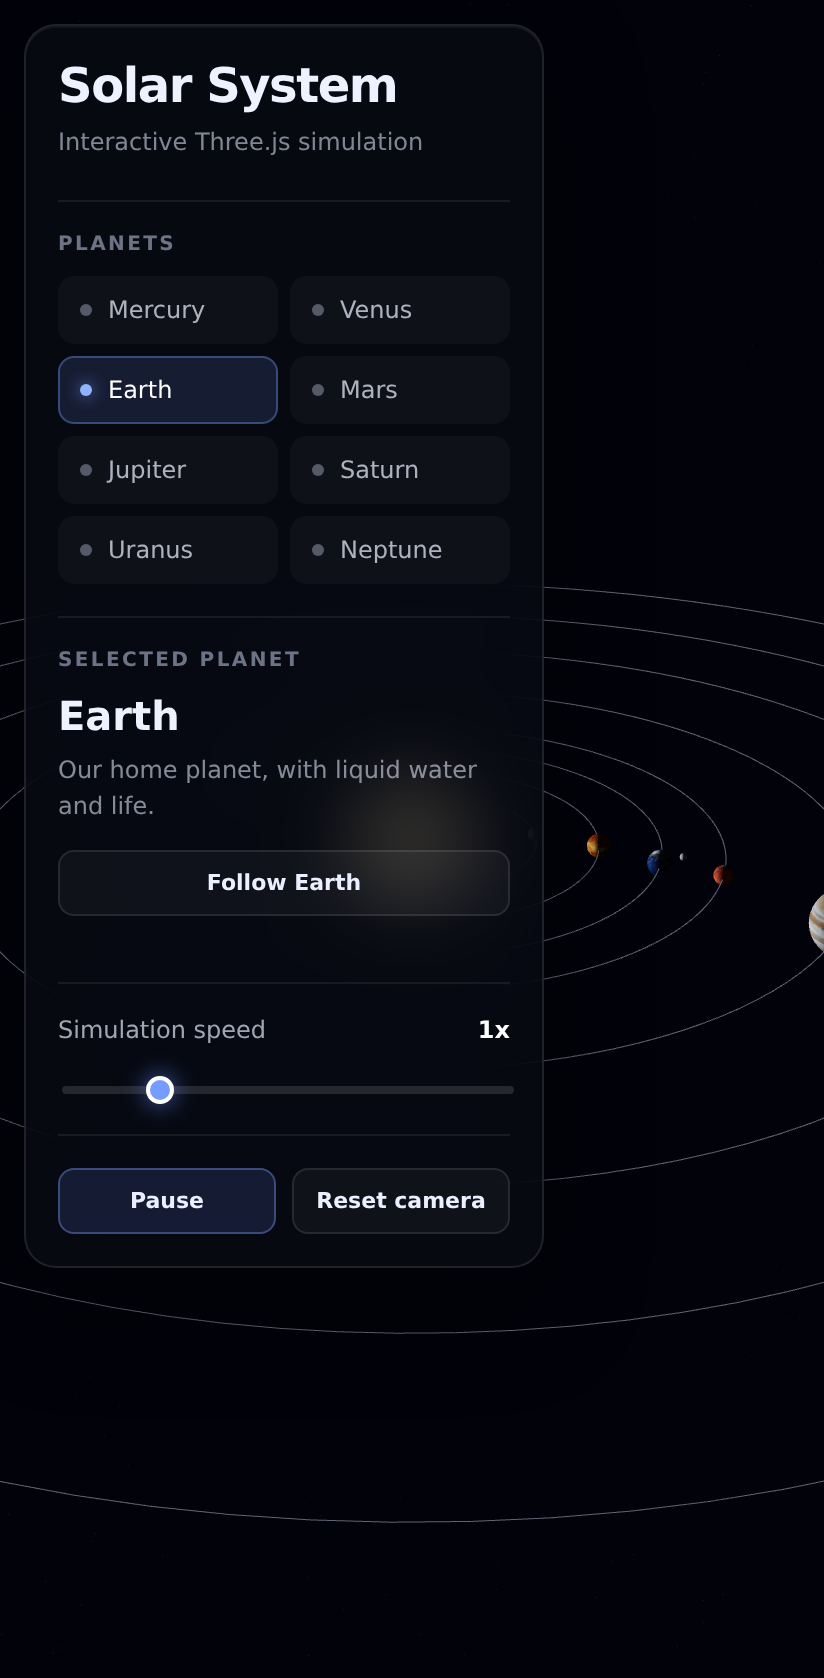
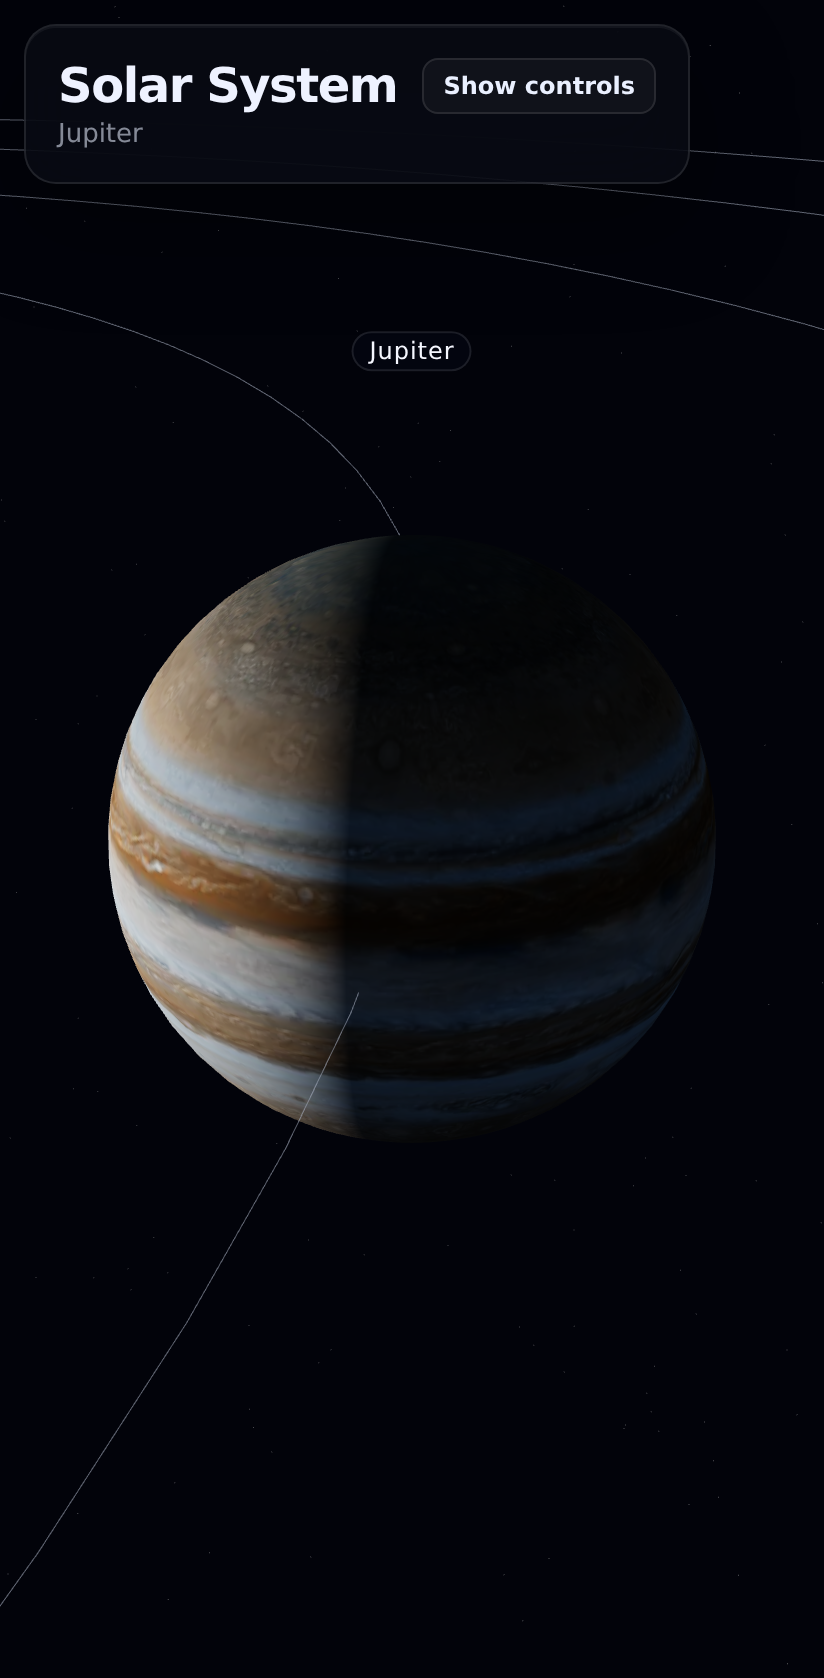
docs: describe the folding panel and the labels, and take both off the roadmap
The README's phone screenshot now shows a chosen planet with the panel folded and its label, and the
screenshot script takes it that way.

diff --git a/CLAUDE.md b/CLAUDE.md
@@ -54,16 +54,17 @@ scripts/         README screenshots
 - **Loading.** A `THREE.LoadingManager` drives the progress bar (`#loader-bar`, `#loader-status`); `hideLoader()` removes it when every texture has loaded. Texture URLs are built from `import.meta.env.BASE_URL`, which is relative (`./`) in builds. With reduced motion there is no fade and so no `transitionend`, so the loader is removed at once rather than left at opacity 0, where screen readers would still read it.
 - **Structure of a planet.** An orbit pivot (a rotating `Object3D` at the Sun) holds the planet mesh at its distance. Earth has a second, transparent cloud sphere rotating on its own. The Moon has its own pivot on Earth. Saturn gets a ring mesh with a transparent texture.
 - **Animation** is driven by elapsed time, multiplied by the simulation speed, so it is frame-rate independent. Pause sets the speed multiplier to zero and keeps rendering, so the controls still work.
-- **Panel.** `createUI` joins one markup function per section (`headerMarkup`, `planetListMarkup`, `planetInfoMarkup`, `speedControlMarkup`, `actionsMarkup`), then `queryUIElements` collects the elements the code updates and `bindUIEvents` wires them.
+- **Panel.** `createUI` puts the header first and wraps every other section (`planetListMarkup`, `planetInfoMarkup`, `labelsControlMarkup`, `speedControlMarkup`, `actionsMarkup`) in `#panel-body`; `queryUIElements` collects what the code updates and `bindUIEvents` wires it. `setPanelFolded` sets `data-folded`, the toggle's `aria-expanded` and text, and the summary; `focusPlanet` folds the panel when `phoneLayout` (the same `width <= 640px` as style.css) matches. The CSS folds only inside that media query.
 - **Focus and follow.** `focusPlanet` sets `state.followed`, computes where the camera ends relative to the planet (`focusOffset`) and starts `state.flight` (or jumps, with reduced motion). Each frame `updateFollow` either advances the flight (`updateFlight`, eased, towards the planet's current position, controls disabled) or rides along (`rideAlong`: camera and target turned around the Y axis by the angle the planet travelled, then moved with it). `stopFollowing` leaves the camera where it is. `updateFollowUI` keeps `#follow-button` (`aria-pressed`) and the `#follow-status` live region in step.
 - **Picking.** `enablePicking` listens to the canvas. `handlePointerDown`/`handlePointerUp` treat a press and release within `CONFIG.picking.clickTolerance` pixels as a click and call `planetUnder`, which raycasts against every planet's anchor (recursively) and maps the hit to `anchor.userData.planet` through `planetOf`; if nothing is hit, `planetNear` takes the planet whose projected centre is within `CONFIG.picking.nearMiss` pixels. `handleHover` sets the canvas cursor and `title`, once per animation frame.
+- **Labels.** `createLabelRenderer` (a `CSS2DRenderer`, created before the render loop starts) draws `.labels` over the canvas; `addLabels` hangs a `CSS2DObject` from each planet's anchor, `CONFIG.labels.offset` radii above it. `animate` renders it after the WebGL scene and `resize` resizes it. The layer has `pointer-events: none` and each `.planet-label` `auto`; a label click calls `focusPlanet`. `#labels-toggle` hides the whole layer.
 - **Unsupported WebGL** shows an explicit message (`showUnsupportedMessage()`) instead of a blank page.
 
 ## 6. Invariants - do not break
 
 1. Asset URLs always go through `BASE_URL`. Never use absolute `/textures/...`, because the site lives under `/threejs-solar-system/`.
 2. Keep `CONFIG.planets` and `TEXTURES` keys in sync; the UI and the smoke tests use the keys (`data-planet="saturn"`).
-3. The UI element ids (`#planet-name`, `#pause-button`, `#speed`, `#speed-value`, `#loader`, `#follow-button`, `#follow-status`) are used by the tests.
+3. The UI element ids (`#planet-name`, `#pause-button`, `#speed`, `#speed-value`, `#loader`, `#follow-button`, `#follow-status`, `#panel-toggle`, `#panel-summary`, `#labels-toggle`, `.planet-label`) are used by the tests.
 4. Texture credits (CC BY 4.0) stay in the README.
 5. Pixel ratio is capped (`getPixelRatio()`) for performance on HiDPI screens.
 
@@ -76,7 +77,7 @@ scripts/         README screenshots
 
 ## 8. Testing guide
 
-`e2e/smoke.spec.js`: the textures load and the loader disappears; focusing Saturn updates the panel; pause and speed controls respond. Each test fails on any uncaught error or console error. Assert behaviour and DOM state, not pixels. Following is checked with `centreBrightness()`, the average brightness of a square at the centre of a screenshot (WebGL keeps no drawing buffer to read): high while a planet is followed, low once it is released. Thresholds leave room for night sides and software rendering; transient states such as the flight are checked through the status text, since screenshots of software WebGL are too slow to time. Scene clicks use `centreOn()`: focus a planet from the panel, stop the planets and release the follow, which leaves the planet in the middle of the view to click, drag or hover; these run on desktop, because on a phone the panel covers the middle.
+`e2e/smoke.spec.js`: the textures load and the loader disappears; focusing Saturn updates the panel; pause and speed controls respond. Each test fails on any uncaught error or console error. Assert behaviour and DOM state, not pixels. Following is checked with `centreBrightness()`, the average brightness of a square at the centre of a screenshot (WebGL keeps no drawing buffer to read): high while a planet is followed, low once it is released. Thresholds leave room for night sides and software rendering; transient states such as the flight are checked through the status text, since screenshots of software WebGL are too slow to time. Scene clicks use `centreOn()`: focus a planet from the panel, stop the planets and release the follow, which leaves the planet in the middle of the view to click, drag or hover; on a phone `openPanel()` and `foldPanel()` open the panel to use it and fold it to free the middle of the view. Labels move every frame, so a label click is dispatched to the element rather than waiting for it to settle; scene tests are marked `test.slow()` for software WebGL.
 
 ## 9. Recipes
 
@@ -99,7 +100,6 @@ The jobs are _Lint and types_ (formatting and lint), _Build_ (uploads `dist/`), 
 ## 12. Known limitations
 
 - Circular orbits and stylised sizes and distances (see the roadmap in the README).
-- On a phone the panel covers most of the view, including the middle where a focused planet sits; folding it away is first on the roadmap.
 
 ## House style (identical in every repository of this portfolio)
 

diff --git a/README.md b/README.md
@@ -24,7 +24,8 @@ Eight textured planets orbit a light-emitting Sun against a procedurally generat
 - Click any planet in the scene to focus it, with a pointer and its name on hover; small, distant planets count as hit when the click lands near them
 - Simulation speed control from 0x to 5x and a pause/resume toggle
 - Frame-rate independent animation driven by elapsed time
-- Responsive canvas and a mobile layout for the UI panel
+- Responsive canvas; on a phone the panel folds away once you choose a planet, leaving it in view
+- Planet names float over the scene, follow their planets and focus them when clicked; a checkbox hides them
 - Reduced motion respected: the camera jumps instead of flying, and the loader goes without a fade
 
 ## Tech stack
@@ -76,7 +77,13 @@ A click on the canvas becomes a ray from the camera through the pointer, with `T
 
 The orbit controls use the same pointer, so a click is told apart from a drag: a press and release less than 5 pixels apart picks, anything longer turns the view. Hovering with a mouse shows a pointer and the planet's name, raycasting at most once a frame. Keyboard and screen reader users have the same choice in the panel, which stays the accessible way in.
 
+### Planet labels
+
+The names over the scene are HTML, not geometry. `CSS2DRenderer` from the Three.js addons draws a layer of DOM elements over the canvas and, on every frame, moves each label to where its anchor projects on screen, and hides it when it is behind the camera. Each label hangs from its planet's anchor, a little above the planet (1.6 radii), so it travels along the orbit and never covers the planet itself. Being HTML, the labels stay sharp at any pixel ratio and take a click like any element; the layer itself lets the pointer through to the orbit controls. They are hidden from screen readers, which have the panel's planet list.
+
 ### UI
+
+On a phone the panel would cover most of the scene, so it can fold down to its header: the title, the chosen planet and a Show controls / Hide controls button with `aria-expanded`. Choosing a planet folds it, so the camera's flight ends on a planet you can see; the button opens it again. Wider screens have room for both, and there the panel never folds.
 
 The control panel is generated in JavaScript, appended to the body and styled with plain CSS. Planet buttons are built from the same `CONFIG.planets` object that builds the scene, so adding a planet to the config adds it to the UI automatically. The status line under the planet's description is a live region, so screen readers hear when the camera starts and stops following.
 
@@ -93,9 +100,9 @@ With a relative `base` in `vite.config.js`, the same code works at `/` locally a
 
 ## Testing
 
-| Layer      | Tool       | What it covers                                                                                                                                                                                                                                                                                                  |
-| ---------- | ---------- | --------------------------------------------------------------------------------------------------------------------------------------------------------------------------------------------------------------------------------------------------------------------------------------------------------------- |
-| End-to-end | Playwright | the production build on desktop and mobile: loads without errors, controls work, a focused planet stays in view as it orbits and leaves it when released, flight or jump depending on reduced motion, clicking a planet in the scene focuses it while a drag does not, the hover pointer and name - 8 scenarios |
+| Layer      | Tool       | What it covers                                                                                                                                                                                                                                                                                                                                                                                   |
+| ---------- | ---------- | ------------------------------------------------------------------------------------------------------------------------------------------------------------------------------------------------------------------------------------------------------------------------------------------------------------------------------------------------------------------------------------------------ |
+| End-to-end | Playwright | the production build on desktop and mobile: loads without errors, controls work, a focused planet stays in view as it orbits and leaves it when released, flight or jump depending on reduced motion, clicking a planet in the scene focuses it while a drag does not, the hover pointer and name, the panel folding on a phone, labels that focus their planet and can be hidden - 10 scenarios |
 
 WebGL output is hard to assert pixel by pixel, so the tests check behaviour instead: no uncaught errors or console messages, the canvas appears, and the controls do what they say. To see whether the camera follows, a test reads the average brightness of the centre of the view from a screenshot: a planet fills it while followed, and empty space takes over once it is released. CI runs the suite against the exact build it deploys.
 
@@ -145,8 +152,6 @@ Pushing to `master` runs formatting and lint, then builds the site and runs the 
 
 ## Roadmap
 
-- [ ] A panel that folds away on phones, so the scene and a focused planet stay in view
-- [ ] Planet labels rendered over the canvas
 - [ ] Elliptical orbits and more accurate relative sizes
 - [ ] Bloom and other post-processing on the Sun
 - [ ] TypeScript migration
